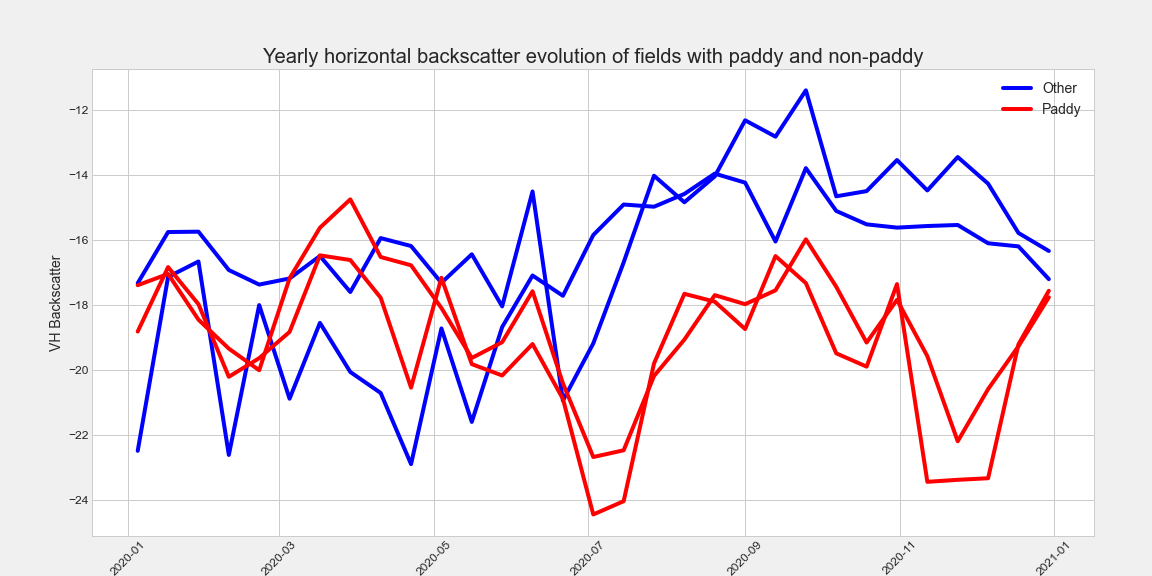
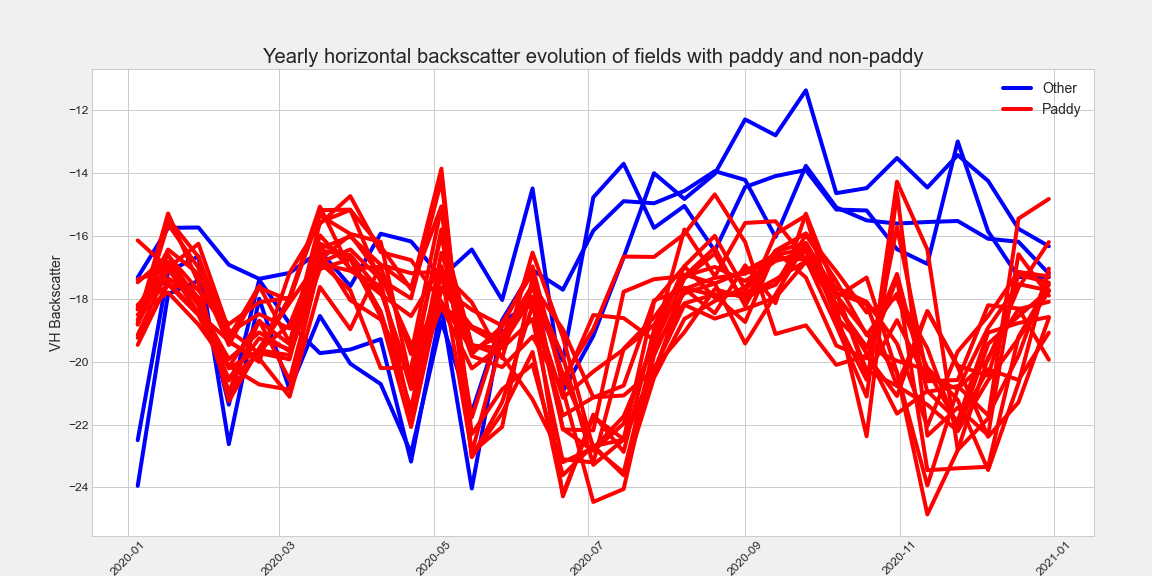
aggregated yearly plots 15 paddy - 3 non

Changed region(s): [[0.0625, 0.2188, 0.9375, 0.9062]]

diff --git a/modeling/exploration.py b/modeling/exploration.py
@@ -1,7 +1,10 @@
 # %%
 import pandas as pd
+import numpy as np
+import seaborn as sns
 import matplotlib.pyplot as plt
 from matplotlib import rcParams
+
 
 plt.style.use("fivethirtyeight")
 rcParams["axes.labelsize"] = 14
@@ -14,24 +17,73 @@ plt.style.use("seaborn-whitegrid")
 # Other
 other0 = pd.read_csv("../data/output_clean/other0.csv")
 other1 = pd.read_csv("../data/output_clean/other1.csv")
+other2 = pd.read_csv("../data/output_clean/other2.csv")
+
 paddy0 = pd.read_csv("../data/output_clean/paddy0.csv")
 paddy1 = pd.read_csv("../data/output_clean/paddy1.csv")
+paddy2 = pd.read_csv("../data/output_clean/paddy2.csv")
+paddy3 = pd.read_csv("../data/output_clean/paddy3.csv")
+paddy4 = pd.read_csv("../data/output_clean/paddy4.csv")
+paddy5 = pd.read_csv("../data/output_clean/paddy5.csv")
+paddy6 = pd.read_csv("../data/output_clean/paddy6.csv")
+paddy7 = pd.read_csv("../data/output_clean/paddy7.csv")
+paddy8 = pd.read_csv("../data/output_clean/paddy8.csv")
+paddy9 = pd.read_csv("../data/output_clean/paddy9.csv")
+paddy10 = pd.read_csv("../data/output_clean/paddy10.csv")
+paddy11 = pd.read_csv("../data/output_clean/paddy11.csv")
+paddy12 = pd.read_csv("../data/output_clean/paddy12.csv")
+paddy13 = pd.read_csv("../data/output_clean/paddy13.csv")
+paddy14 = pd.read_csv("../data/output_clean/paddy14.csv")
+paddy15 = pd.read_csv("../data/output_clean/paddy15.csv")
 # %%
-other0["date"] = pd.to_datetime(other0["date"].astype(str))
-other1["date"] = pd.to_datetime(other1["date"].astype(str))
-paddy0["date"] = pd.to_datetime(paddy0["date"].astype(str))
-paddy1["date"] = pd.to_datetime(paddy1["date"].astype(str))
+others_data = [other0, other1, other2]
+paddy_data = [
+    paddy0,
+    paddy1,
+    paddy2,
+    paddy3,
+    paddy4,
+    paddy5,
+    paddy6,
+    paddy7,
+    paddy8,
+    paddy9,
+    paddy10,
+    paddy11,
+    paddy12,
+    paddy13,
+    paddy14,
+    paddy15,
+]
+# %%
+for data in others_data:
+    data["date"] = pd.to_datetime(data["date"].astype(str))
+    print(data.shape)
+for data in paddy_data:
+    data["date"] = pd.to_datetime(data["date"].astype(str))
+    print(data.shape)
+# %%
+
 
 # %%
 plt.figure()
 plt.title("Yearly horizontal backscatter evolution of fields with paddy and non-paddy")
 # Other
-plt.plot(other0.groupby("date")["VH"].mean(), label="Other", color="b")
-plt.plot(other1.groupby("date")["VH"].mean(), color="b")
+for i, data in enumerate(others_data):
+    if i == 0:
+        plt.plot(data.groupby("date")["VH"].mean(), label="Other", color="b")
+    else:
+        plt.plot(data.groupby("date")["VH"].mean(), color="b")
+
 
 # Paddy
-plt.plot(paddy0.groupby("date")["VH"].mean(), label="Paddy", color="r")
-plt.plot(paddy1.groupby("date")["VH"].mean(), color="r")
+for i, data in enumerate(paddy_data):
+    if i == 0:
+        plt.plot(data.groupby("date")["VH"].mean(), label="Paddy", color="r")
+    else:
+        plt.plot(data.groupby("date")["VH"].mean(), color="r")
+
+
 plt.xticks(rotation=45)
 plt.ylabel("VH Backscatter")
 plt.legend()
@@ -39,5 +91,24 @@ plt.savefig("images/yearly.png")
 plt.show()
 
 # %%
-sorted(other1["date"].unique())
+other = pd.DataFrame()
+for data in others_data:
+    other = other.append(data)
+paddy = pd.DataFrame()
+for data in paddy_data:
+    paddy = paddy.append(data)
+
+# %%
+plt.figure()
+plt.title("Aggregated VH evolution of fields with paddy (15 fields) and non-paddy (3 fields)")
+plt.plot(other.groupby("date")["VH"].mean(),label="Other", color="b")
+plt.plot(paddy.groupby("date")["VH"].mean(),label="Paddy", color="r")
+plt.xticks(rotation=45)
+plt.ylabel("VH Backscatter")
+plt.legend()
+plt.savefig("images/yearly_aggregated.png")
+plt.show()
+# %%
+
+
 # %%

diff --git a/modeling/preprocess.py b/modeling/preprocess.py
@@ -18,15 +18,12 @@ for file in files:
     df = df[["VH", "latitude", "longitude"]]
     date = file[17:25]
     df["date"] = date
-    df["field"] = "other"
+    df["field"] = "paddy"
     full = full.append(df)
 
-
 # %%
-full["date"].unique()
+full.to_csv("../data/output_clean/paddy15.csv", index=False)
 
-# %%
-full.to_csv("../data/output_clean/other2.csv", index=False)
 
 # %%
 
